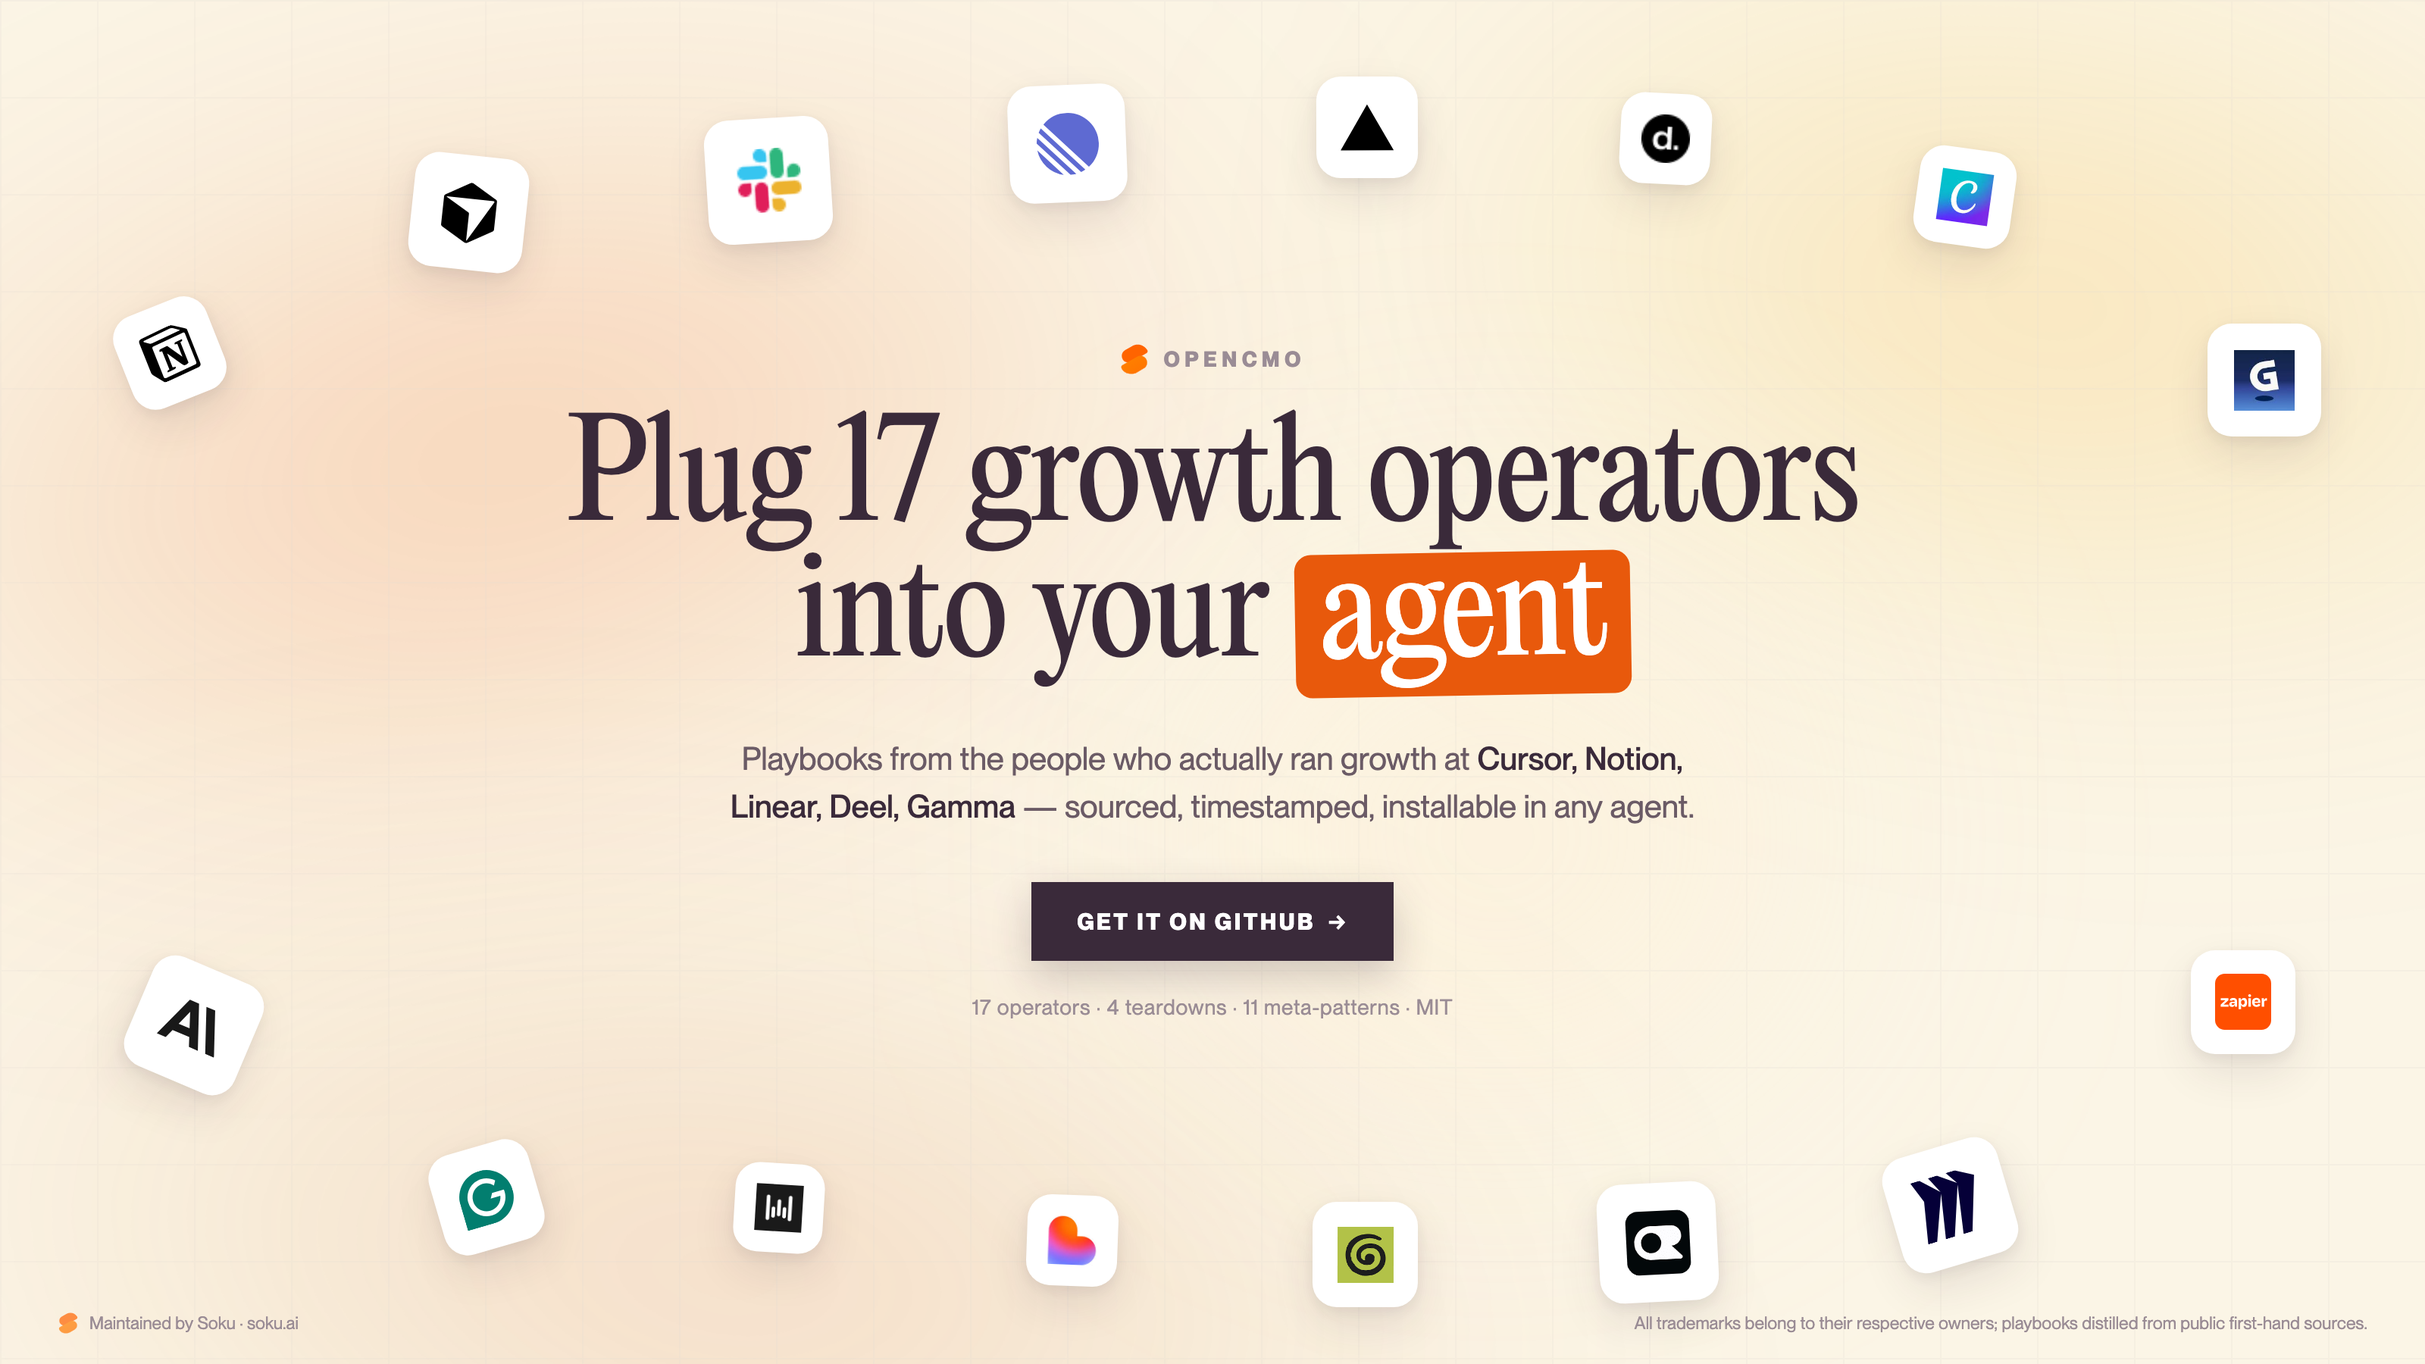
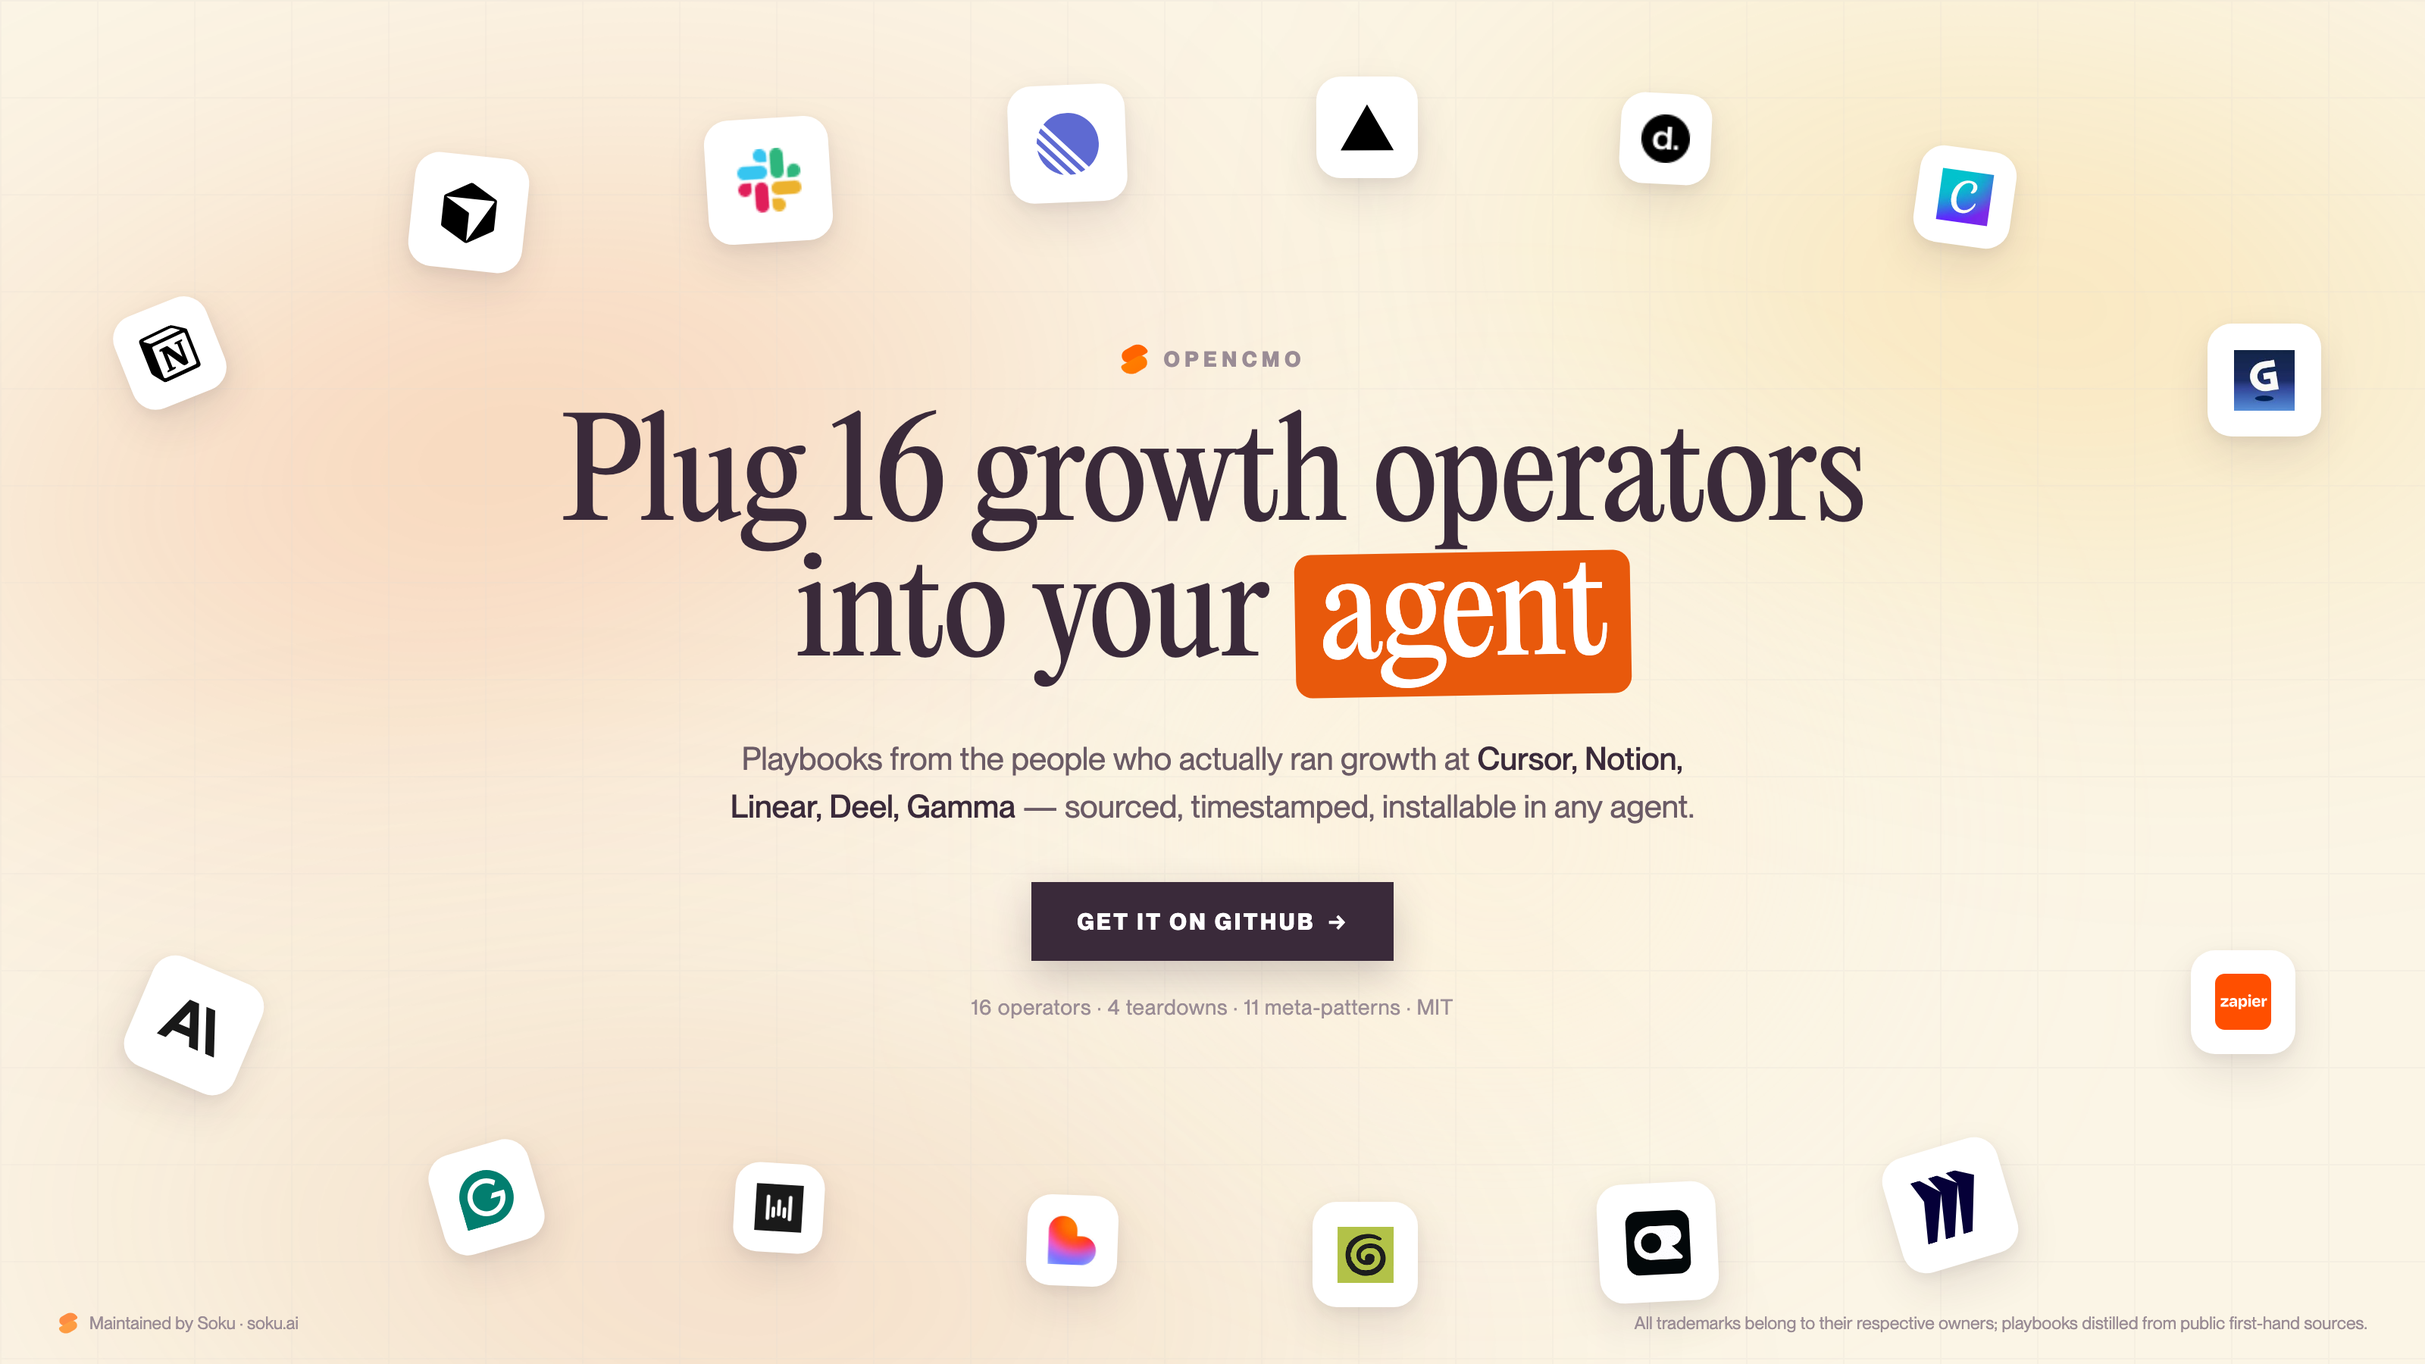
Remove Jon Loomer entry; 17 → 16 operators
Kept the underlying creative-diversity and tactic-decay observations,
re-attributed to the surrounding argument rather than dropping them.

Changed region(s): [[0.2188, 0.28, 0.7812, 0.4044]]

diff --git a/references/guides/deep-insights.md b/references/guides/deep-insights.md
@@ -1,6 +1,6 @@
-# Deep Insights: Eleven Meta-Patterns Across 17 Practitioners
+# Deep Insights: Eleven Meta-Patterns Across 16 Practitioners
 
-> This is not any single expert's viewpoint. It captures the **patterns that only become visible** once you lay the library's 17 practitioners + 4 company teardowns side by side. Every entry carries a cross-source evidence chain — conclusions that a single source cannot support are not admitted.
+> This is not any single expert's viewpoint. It captures the **patterns that only become visible** once you lay the library's 16 practitioners + 4 company teardowns side by side. Every entry carries a cross-source evidence chain — conclusions that a single source cannot support are not admitted.
 >
 > How to use it: when you face a concrete growth decision and the individual expert files give conflicting answers, come back here first for the meta-pattern, then return to the specific files for the operational detail. For "what should I do, given my company type and stage," jump straight to [the decision tables](#the-decision-tables-what-works-by-category-and-by-stage) at the end.
 
@@ -76,7 +76,7 @@ Place each expert's core framework side by side and you find they are **the same
 | App growth | ASA (you can pick the keywords = high intent) vs UAC (black box = the algorithm guesses intent) | The channels themselves are priced by intent |
 | OOH / the 95:5 rule | At any moment only 5% of buyers are in-market | The distribution of intent across time |
 
-**Operational implication**: when you pick up any new channel, the first task is not studying its tactics but mapping its **intent gradient** — which tier carries the highest intent, which tier you claim first, and what asset catches each tier. Tactics expire (Jon Loomer's eight "I was wrong" pieces are one long history of expired tactics); intent grading doesn't.
+**Operational implication**: when you pick up any new channel, the first task is not studying its tactics but mapping its **intent gradient** — which tier carries the highest intent, which tier you claim first, and what asset catches each tier. Tactics expire — every platform's targeting playbook has been rewritten by algorithm changes at least once — but intent grading doesn't.
 
 ---
 
@@ -220,7 +220,7 @@ Everything above is diagnosis. These tables are the prescription — built stric
 
 ## Appendix: a meta-observation about this knowledge base itself
 
-**Every expert's most valuable insight is a negation of the consensus of its time.** Jon Loomer's best content is "I Was Wrong"; Yuriy's best passage is the admission that "the best content doesn't always win"; Elena's signature claim is that "60–70% of traditional growth tactics no longer work"; the value of the Jasper case lies in falsifying a popular narrative.
+**Every expert's most valuable insight is a negation of the consensus of its time.** Yuriy's best passage is the admission that "the best content doesn't always win"; Elena's signature claim is that "60–70% of traditional growth tactics no longer work"; the value of the Jasper case lies in falsifying a popular narrative.
 
 Which means two things:
 1. **Growth knowledge has a half-life.** Whatever has become "best practice" is most likely already decaying (because everyone is doing it); an expert's value density is concentrated in judgments that run "contrary to current consensus, and are backed by data"

diff --git a/README.md b/README.md
@@ -1,12 +1,12 @@
 # OpenCMO
 
-<img src="assets/hero.png" alt="OpenCMO — growth playbooks from 17 operators, installable in your AI agent" width="100%">
+<img src="assets/hero.png" alt="OpenCMO — growth playbooks from 16 operators, installable in your AI agent" width="100%">
 
-> The open-source CMO. Growth playbooks from 17 operators who actually ran the numbers — Cursor, Notion, Linear, Deel, Canva, Lovable, Grammarly, Wispr Flow — packaged as an installable skill for your AI agent.
+> The open-source CMO. Growth playbooks from 16 operators who actually ran the numbers — Cursor, Notion, Linear, Deel, Canva, Lovable, Grammarly, Wispr Flow — packaged as an installable skill for your AI agent.
 
 **Covers the whole growth stack**: paid ads (Google · Meta · LinkedIn) &nbsp;·&nbsp; out-of-home & ABM &nbsp;·&nbsp; SEO & programmatic SEO &nbsp;·&nbsp; launches & Product Hunt &nbsp;·&nbsp; pricing & monetization &nbsp;·&nbsp; creator & influencer programs &nbsp;·&nbsp; PLG→enterprise &nbsp;·&nbsp; attribution & tracking &nbsp;·&nbsp; growth engineering with agents
 
-[![License: MIT](https://img.shields.io/badge/License-MIT-yellow.svg)](LICENSE) [![PRs Welcome](https://img.shields.io/badge/PRs-welcome-brightgreen.svg)](CONTRIBUTING.md) ![Experts](https://img.shields.io/badge/experts-17-blue) ![Cases](https://img.shields.io/badge/case_teardowns-4-orange)
+[![License: MIT](https://img.shields.io/badge/License-MIT-yellow.svg)](LICENSE) [![PRs Welcome](https://img.shields.io/badge/PRs-welcome-brightgreen.svg)](CONTRIBUTING.md) ![Experts](https://img.shields.io/badge/experts-16-blue) ![Cases](https://img.shields.io/badge/case_teardowns-4-orange)
 
 ---
 
@@ -67,7 +67,7 @@ The agent answers by citing specific people and their specific conditions, not b
 open-cmo/
 ├── SKILL.md                     # entry point: expert index + scenario navigation
 └── references/
-    ├── experts/    17 operators          # theses, verbatim quotes, contrarian takes, conflicts
+    ├── experts/    16 operators          # theses, verbatim quotes, contrarian takes, conflicts
     ├── cases/       4 teardowns (10+ companies)  # PSEO canon, Canva deep-dive, OpenRouter, Jasper debunk
     ├── channels/    4 channels           # Google, Meta, LinkedIn, out-of-home
     ├── topics/      9 topics             # timing, creative, attribution, SEO, pricing, launches...
@@ -79,7 +79,6 @@ open-cmo/
 | Person | Background | One line to remember them by |
 |--------|-----------|------------------------------|
 | Rex Gelb | Paid media, Cursor | Don't buy ads before PMF; after AI took over bidding, creative/tracking/landing pages are the three levers left |
-| Jon Loomer | Meta ads researcher | The algorithm is literal; his "I was wrong" series catalogs eight practices the algorithm made obsolete |
 | Matt Swulinski | Wispr Flow → Viktor | Ran $1M/month solo; "creative is the targeting"; caps AI-generated creative at 5% |
 | Elena Verna | CPO, Lovable | "60–70% of traditional growth tactics don't apply anymore"; PMF is a treadmill, not a destination |
 | Meltem Berkowitz | CGO, Deel | 0→$300M in 3 years, profitably; the SEO traffic-light framework; "no successful paid ads on a 4-second site" |

diff --git a/SKILL.md b/SKILL.md
@@ -1,13 +1,13 @@
 ---
 name: open-cmo
 description: >
-  Real-world growth & GTM know-how from 17 tech-company operators.
+  Real-world growth & GTM know-how from 16 tech-company operators.
   Covers: paid ads (Google/Meta/LinkedIn), out-of-home & ABM, channel selection,
   PLG→Enterprise, SEO/GEO, programmatic SEO, launches & Product Hunt,
   pricing & monetization for AI products, ad creative strategy, organic and
   viral growth, and growth engineering with agents.
   Distilled from primary sources: interviews, transcripts, bylined articles.
-  Contributors include Rex Gelb (Cursor), Jon Loomer (Meta ads), Jared Liu (YouMind),
+  Contributors include Rex Gelb (Cursor), Jared Liu (YouMind),
   Ben Lang (Notion/Cursor), Lena Waters (Notion), Karri Saarinen (Linear),
   Morgane Palomares (ex-Vercel), Elena Verna (Lovable), Holly Chen (ExponentialX),
   Phil Carter (Elemental Growth), Austin Lau (Anthropic), Matt Swulinski (Wispr Flow),
@@ -38,7 +38,7 @@ triggers:
 metadata:
   version: "1.0.0"
   last_updated: "2026-08-19"
-  experts_count: 17
+  experts_count: 16
   language: en
 ---
 
@@ -73,7 +73,6 @@ First-hand experience from people who ran growth at real companies. Not framewor
 | Operator | Company | Focus | Core thesis | File |
 |----------|---------|-------|-------------|------|
 | Rex Gelb | Cursor | LinkedIn/Google/Meta | Don't buy ads before PMF; staged SEM; in 2026 AI runs bidding — creative/tracking/landing pages are the levers left | [→](references/experts/rex-gelb-cursor.md) |
-| Jon Loomer | jonloomer.com | Meta ads research | The algorithm is literal; targeting obsession is obsolete; simplify structure; creative is the lever | [→](references/experts/jon-loomer-meta.md) |
 
 ### Growth advisors / cross-company frameworks
 
@@ -100,7 +99,7 @@ First-hand experience from people who ran growth at real companies. Not framewor
 |---------|----------|---------------|-------|--------|
 | LinkedIn | B2B, enterprise, ABM | CPC $5.50–$8.50 | CTR 0.44–0.65%, ROAS 4.1–8.3x (2026 benchmarks) | Rex Gelb |
 | Google Search | High-intent, active search | Varies by vertical | Start with brand terms | Rex Gelb |
-| Meta (FB+IG) | Visual products, scale | T0-country CPMs high | Creative supply is the gate | Rex Gelb / Jon Loomer |
+| Meta (FB+IG) | Visual products, scale | T0-country CPMs high | Creative supply is the gate | Rex Gelb |
 | OOH (out-of-home) | Mature B2B, geo-concentrated buyers, high ACV | ~$100K minimum per major market | Self-reported attribution mostly | Stytch / Notion / Clay / Unify |
 
 → Details in [channels/](references/channels/)

diff --git a/references/channels/meta-ads.md b/references/channels/meta-ads.md
@@ -251,23 +251,6 @@ Added to cart / started sign-up but didn't finish
 ### Rex Gelb (Head of Paid Media, Cursor)
 > On Meta, the more you intervene, the worse it gets. Broaden targeting and let the algorithm optimize on its own. Combine placements and let the system decide between Facebook and Instagram.
 
-### Jon Loomer (jonloomer.com, independent Meta ads researcher since 2011)
-
-**Five core principles**:
-
-1. **The algorithm executes literally**: whatever Performance Goal you pick, the system finds exactly those people. Picking the wrong goal is the root cause of most failures — not the creative.
-2. **Targeting obsession is mostly wasted**: in the Advantage+ era, the marginal value of manual targeting has nearly vanished.
-   > "Your targeting inputs just aren't that important."
-3. **Attribution is your responsibility**: CAPI misconfigured → the algorithm is fed wrong data → optimization goes off course. The platform only mirrors reality.
-4. **Simplicity beats complexity**:
-   > "A complicated approach often works against you. It waters down your budget, drives up costs."
-5. **Strategic intervention**: neither fully hands-off nor fully controlling. Only by understanding the algorithm's mechanics do you know when to step in.
-
-**The core evolution of his views (2026)**: from fine-grained targeting → trusting the algorithm; from complex structures → radical simplification; from controlling placements → letting the system allocate; **creative is now the most important lever**.
-
-> "You will be wrong. If you are unable to embrace this possibility, you're likely to create a fantasy land where everyone else is to blame but you."
-
-→ Full methodology: [experts/jon-loomer-meta.md](../experts/jon-loomer-meta.md)
 
 ### CCM Marketing Lab (WeChat official account)
 

diff --git a/references/topics/ad-creative-strategy.md b/references/topics/ad-creative-strategy.md
@@ -17,7 +17,7 @@ With platform AI fully taking over bidding and targeting, **creative has become 
 - Now: the only levers humans control are creative quality and testing frequency
 - Result: you need more creative variants, higher testing frequency, and more focus on steering creative direction
 
-Jon Loomer (Meta ads researcher) makes the same point: the Andromeda model lets different assets reach different audiences — **creative diversity is itself a targeting strategy**.
+The same logic runs the other way too: because the Andromeda model lets different assets reach different audiences, **creative diversity is itself a targeting strategy**.
 
 ---
 
@@ -211,7 +211,6 @@ On any platform, the first 3 seconds (video) / opening line (static) decide whet
 | Expert | Core contribution | Detailed doc |
 |------|---------|---------|
 | Rex Gelb (Cursor) | Three-platform creative strategy; creative's new status as AI takes over bidding in 2026 | [experts/rex-gelb-cursor.md](../experts/rex-gelb-cursor.md) |
-| Jon Loomer (jonloomer.com) | Creative diversity as targeting strategy; the Andromeda model's logic | [experts/jon-loomer-meta.md](../experts/jon-loomer-meta.md) |
 | Ben Lang (Notion/Cursor) | All-video YouTube strategy; creators genuinely using the product vs reading a script | [experts/ben-lang-notion-cursor.md](../experts/ben-lang-notion-cursor.md) |
 | Matt Swulinski (Wispr Flow) | Creative volume benchmark ($100K→400–500 assets/month); "creative bundle diversity" thinking; 5% cap on AI creative | [experts/matt-swulinski-wispr-flow.md](../experts/matt-swulinski-wispr-flow.md) |
 | Meltem Berkowitz (Deel) | ~Three-week creative fatigue cycle; monthly refresh cadence | [experts/meltem-berkowitz-deel.md](../experts/meltem-berkowitz-deel.md) |

diff --git a/references/experts/matt-swulinski-wispr-flow.md b/references/experts/matt-swulinski-wispr-flow.md
@@ -226,7 +226,7 @@ He also disclosed something honest: he was an early Claude Code user, starting i
 
 **These four disagree less than it appears**: Matt requires "get tracking right first and accumulate 50 conversions"; Meltem requires "lay the website and content foundation first" — both are really saying **paid acquisition is an amplifier, not an engine**. Elena objects to "throwing money before validation," not to paid itself. The only real disagreement is how much of the groundwork counts as "part of paid acquisition."
 
-**On creative strategy** he is highly aligned with [Jon Loomer](jon-loomer-meta.md): both believe that after Meta's algorithm evolution, targeting obsession is obsolete and creative has become the only lever. Matt adds a quantitative bar ($100K budget → 400–500 creatives/month).
+**On creative strategy**: after Meta's algorithm evolution, targeting obsession is obsolete and creative has become the only lever. Matt puts a quantitative bar on it ($100K budget → 400–500 creatives/month).
 → Rolled up in [topics/ad-creative-strategy.md](../topics/ad-creative-strategy.md)
 
 **On tracking setup**, his view and Rex Gelb's "incomplete tracking gives the algorithm distorted data" are two phrasings of the same judgment.
